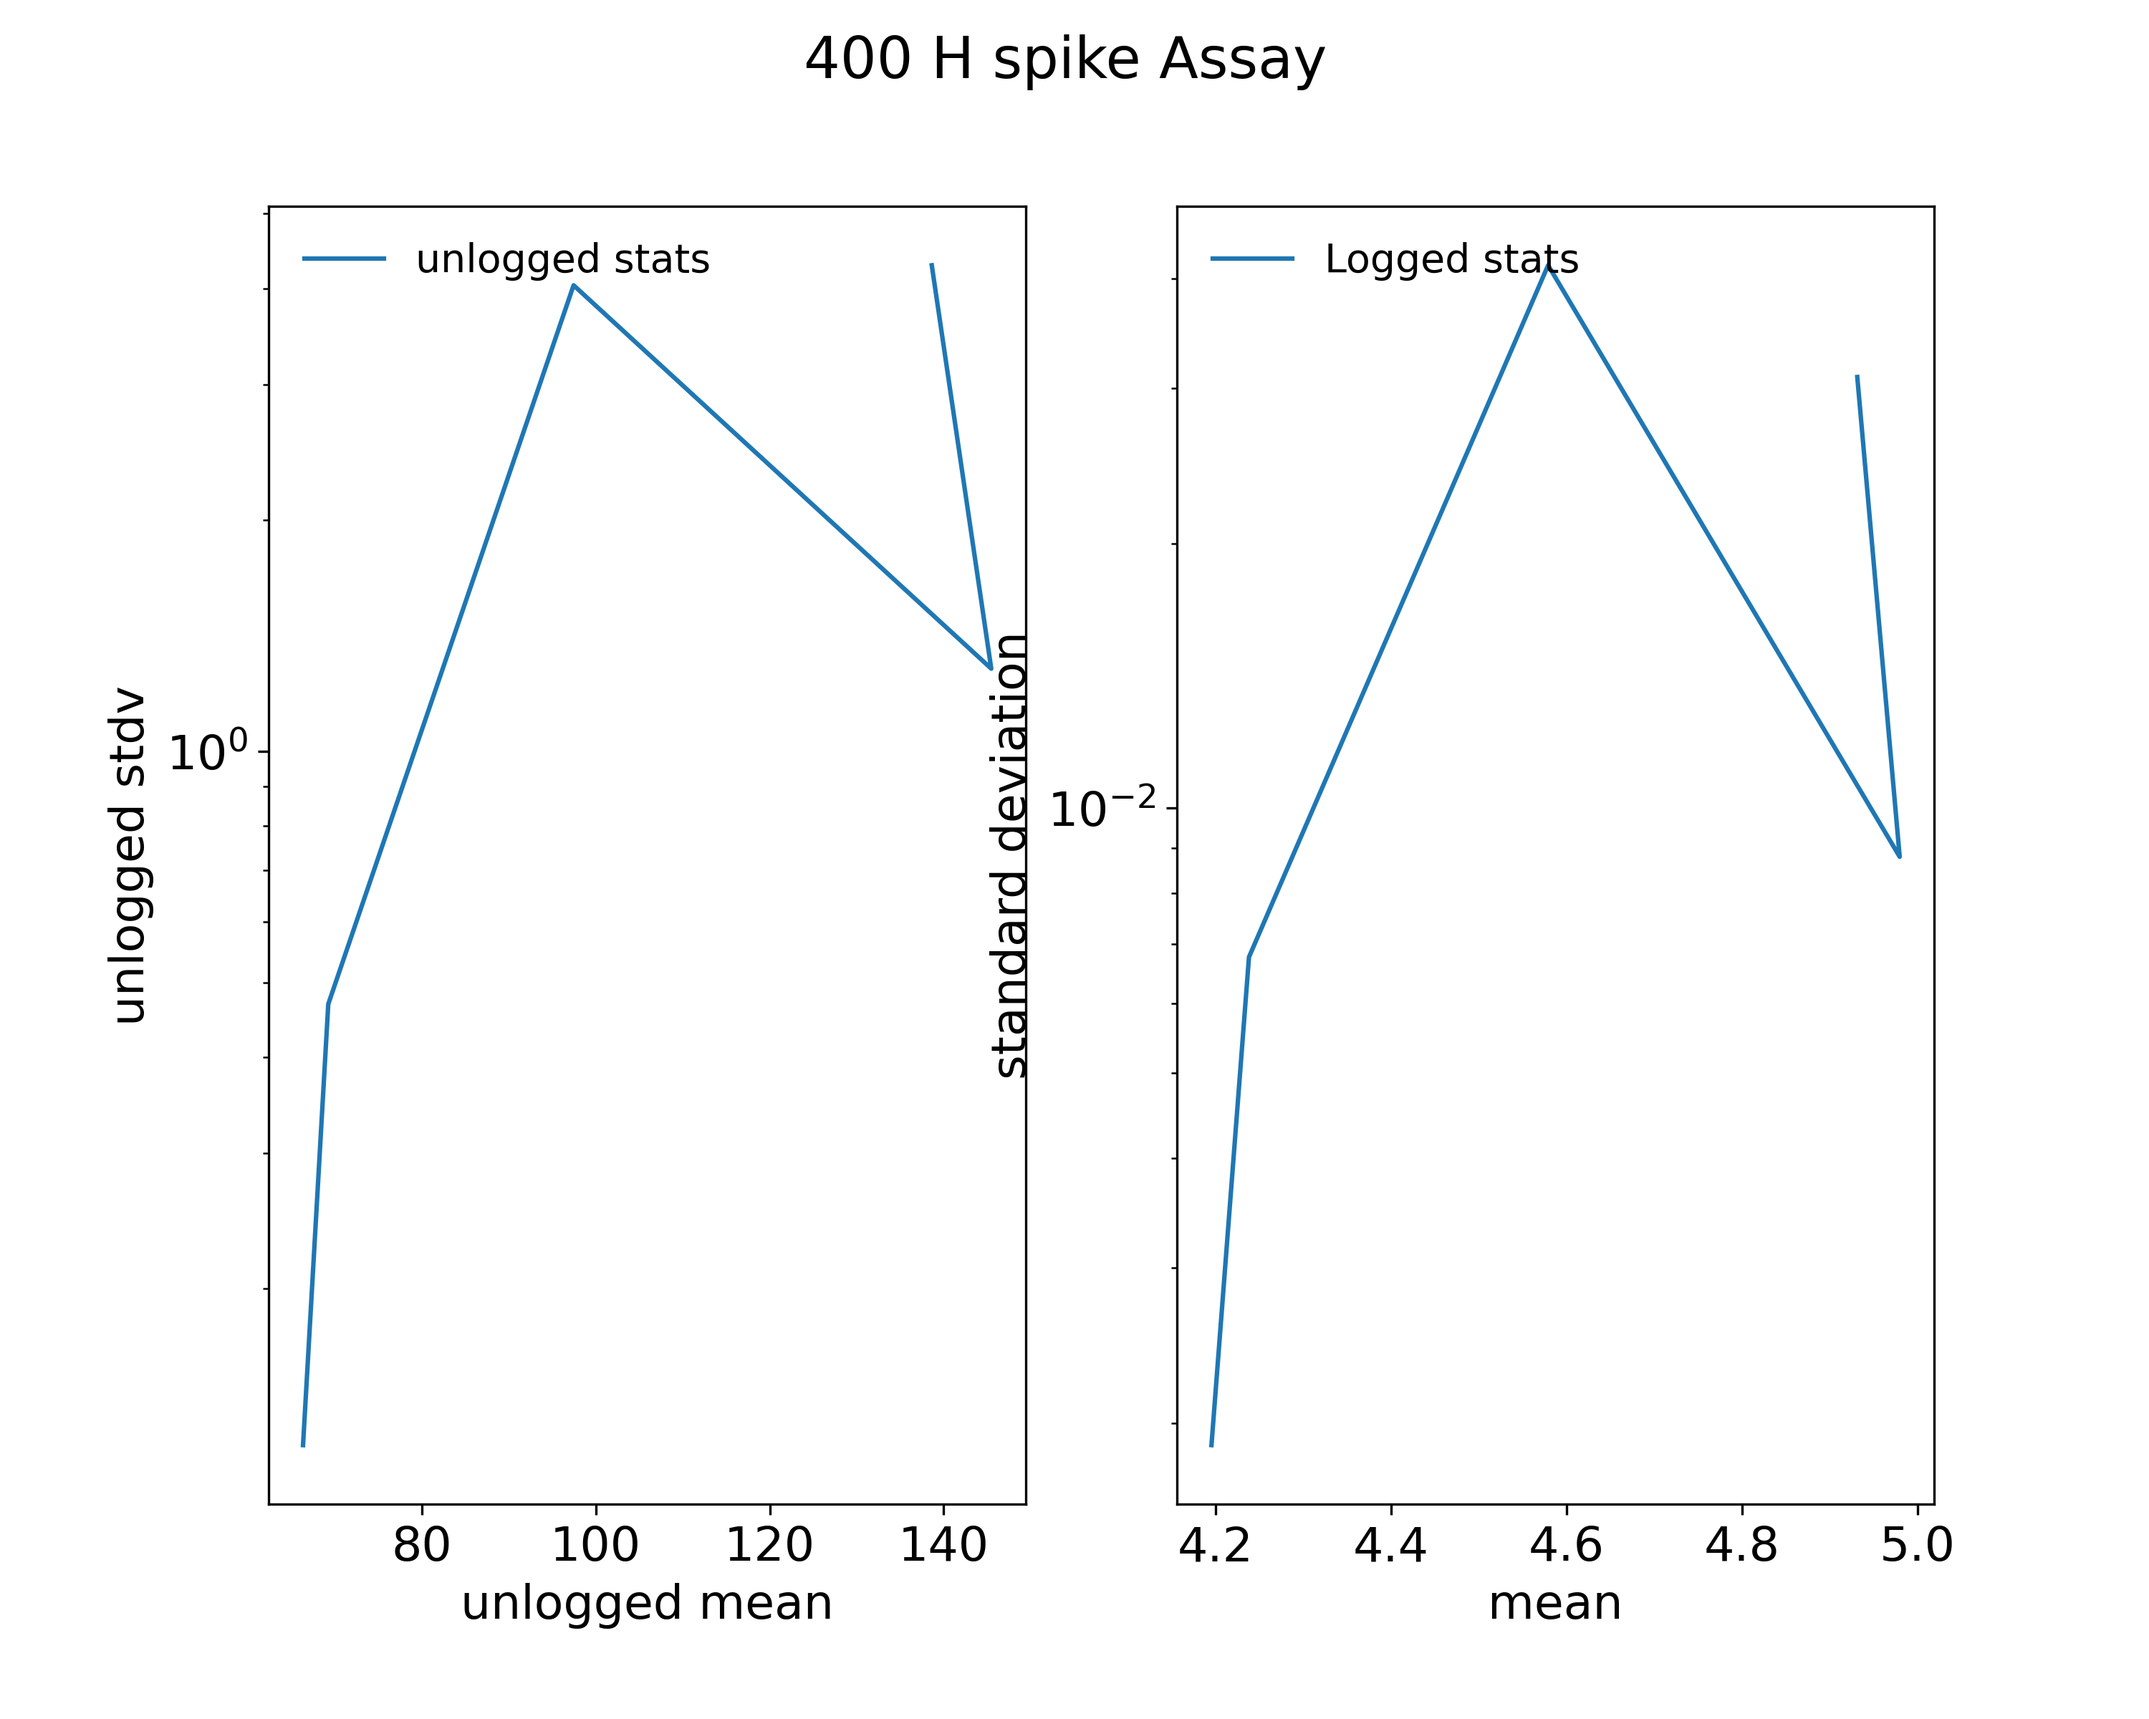
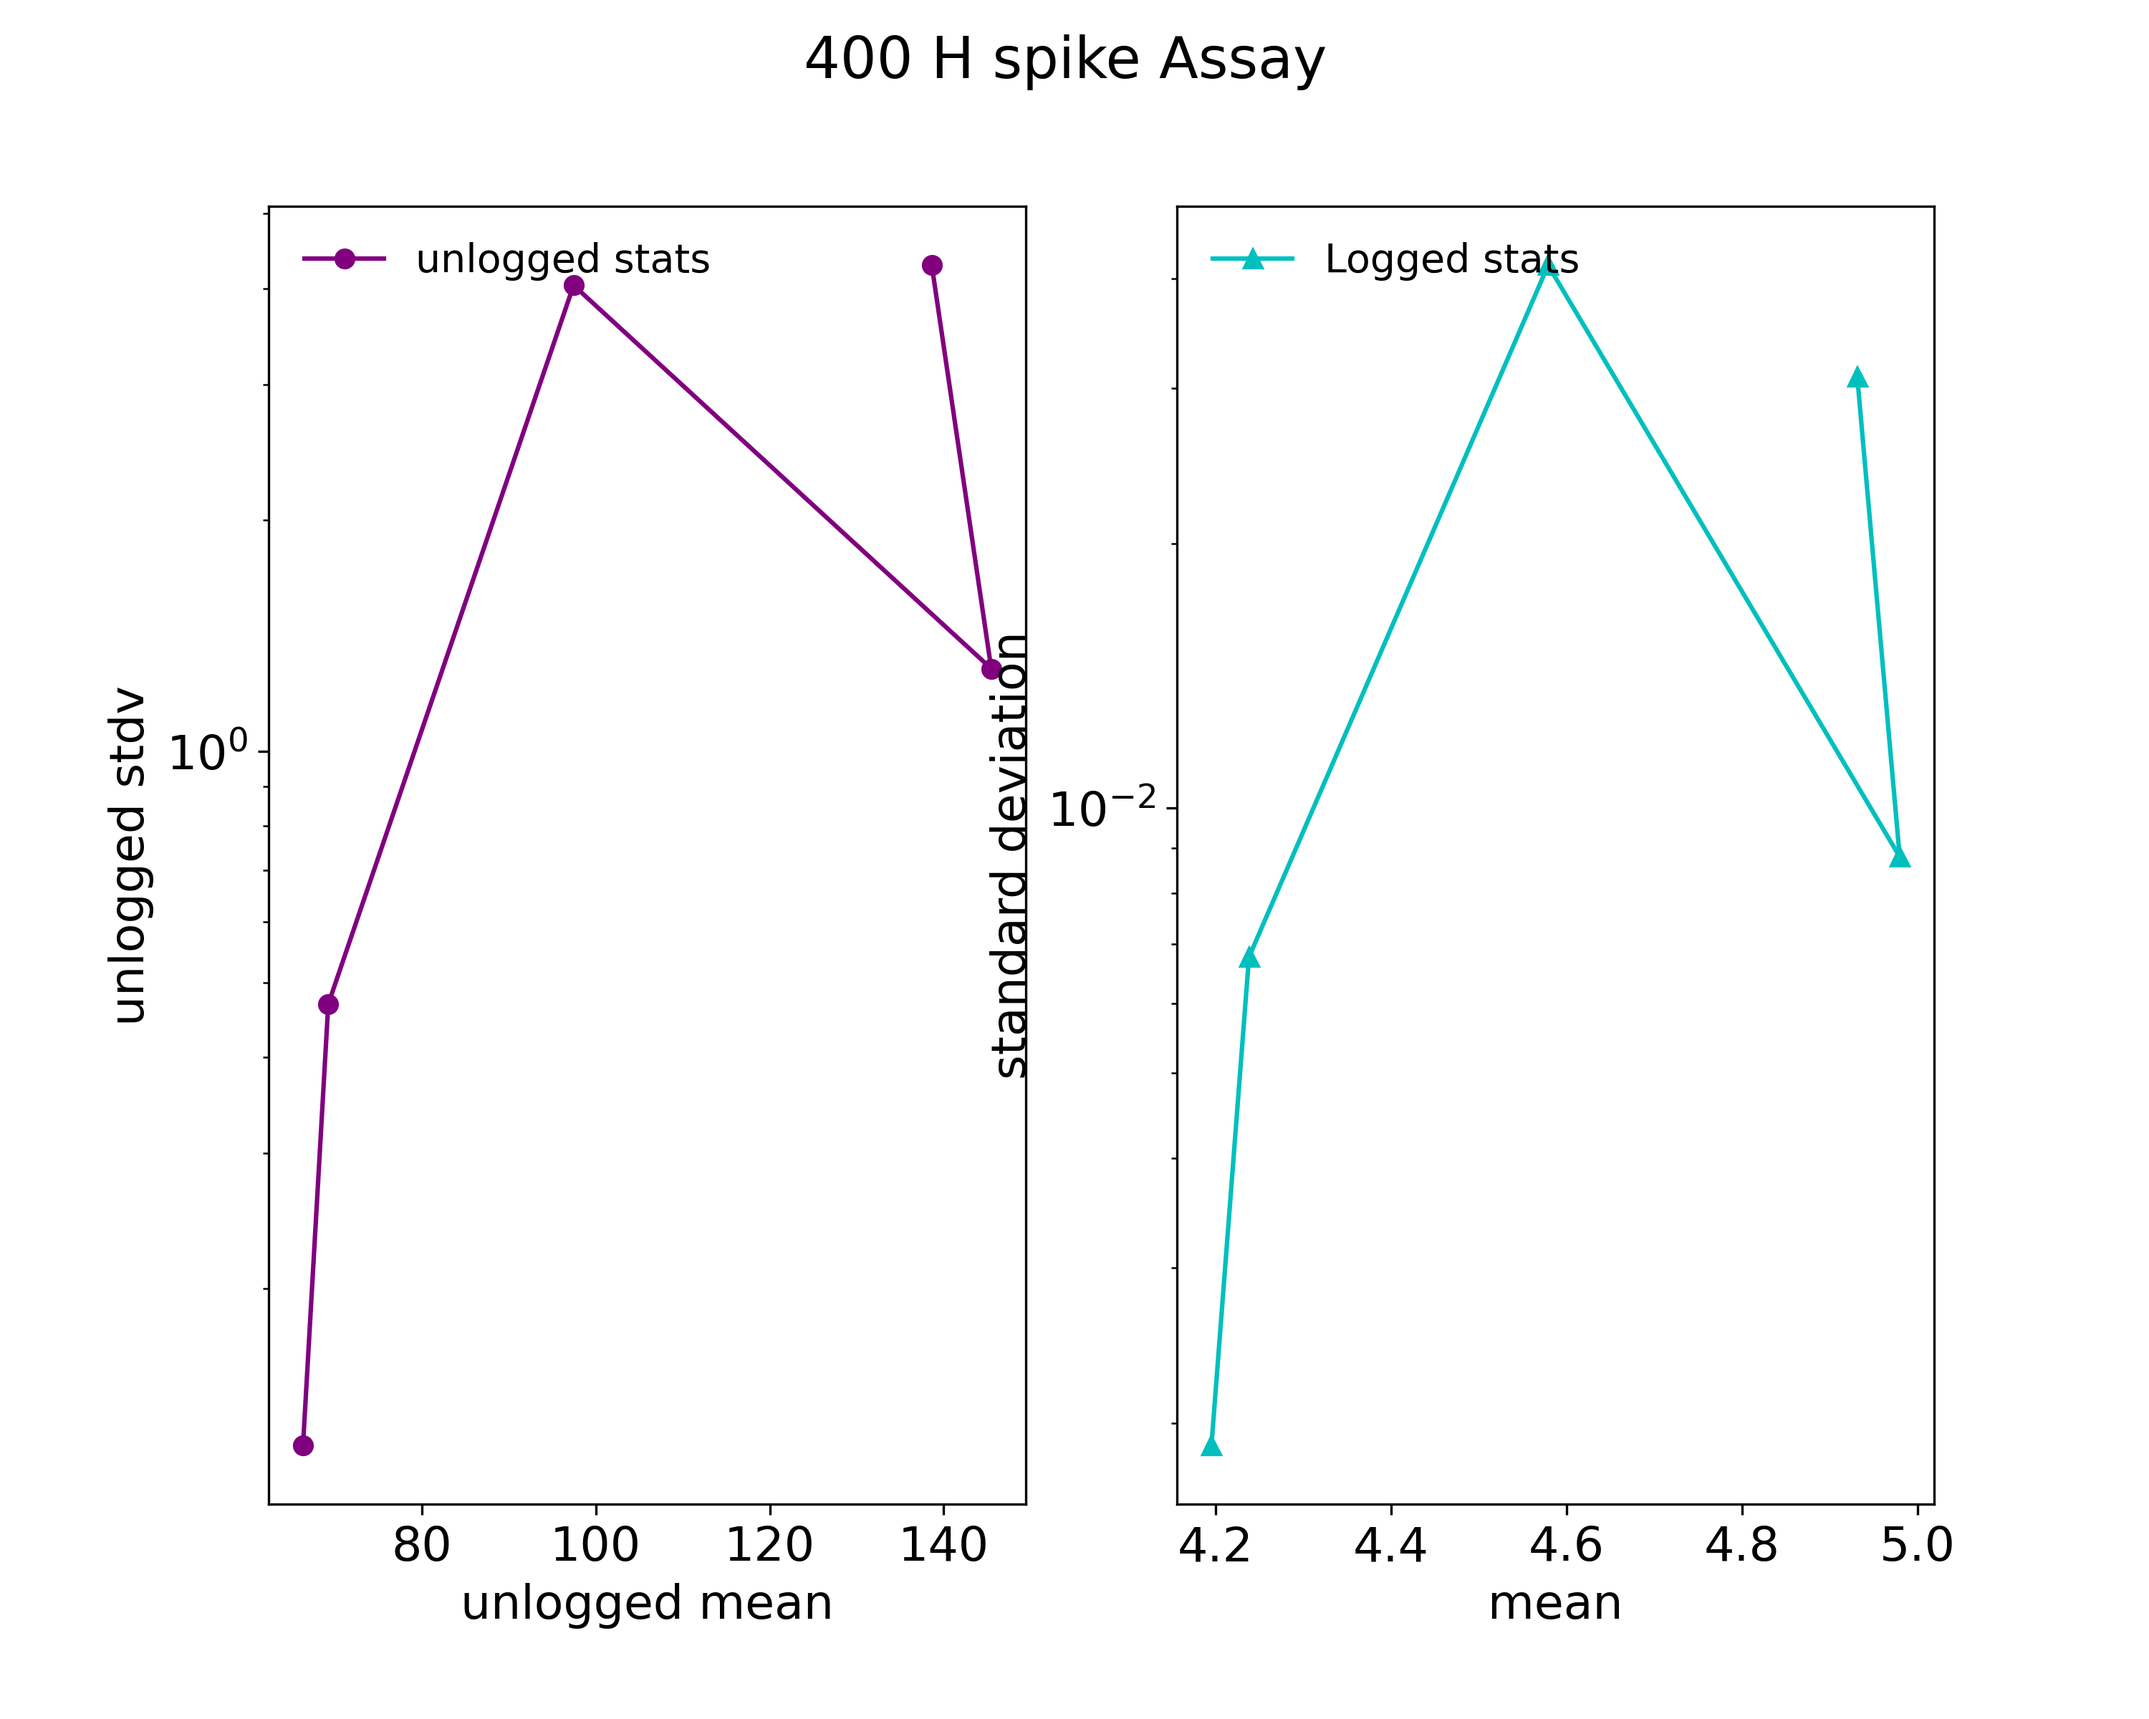
broken abioitc

diff --git a/src/viz_abiotic_batch.py b/src/viz_abiotic_batch.py
@@ -35,17 +35,31 @@ df_all.drop(df_all.columns[df_all.columns.str.contains('unnamed',case = False)],
 df_all = df_all.rename({'time(day)':'time'}, axis=1)    #'renaming column to make it callable by 'times'
 df = df_all
 
-#make unlogged avgs
-df['avg1'] = df[['rep1', 'rep3']].mean(axis=1)
-df['std1'] = df[['rep1', 'rep3']].std(axis=1)
-
-#make logs of data
 df['log1'] = np.log(df['rep1'])
+df['log2'] = np.log(df['rep2'])
 df['log3'] = np.log(df['rep3'])
+df['log4'] = np.log(df['rep4'])
 
-#avg and std of logged data
+#####
+
+#bio rep avgs put together 
+df['avg1'] = df[['rep1', 'rep3']].mean(axis=1)
+df['avg2'] = df[['rep2', 'rep4']].mean(axis=1)
+df['std1'] = df[['rep1', 'rep3']].std(axis=1)
+df['std2'] = df[['rep2', 'rep4']].std(axis=1)
+#bio rep logged avgs and stdvs 
 df['lavg1'] = df[['log1', 'log3']].mean(axis=1) #making logged avg columns in df for odelib to have log_abundance to use for posterior calcs
+df['lavg2'] = df[['log2', 'log4']].mean(axis=1)
 df['stdlog1'] = df[['log1', 'log3']].std(axis=1) #taking stdv of logged reps
+df['stdlog2'] = df[['log2', 'log4']].std(axis=1)
+
+
+#total avgs and stdvs
+df['abundance'] =  np.nanmean(np.r_[[df[i] for i in ['rep1','rep2','rep3','rep4']]],axis=0)
+df['sigma'] = np.std(np.r_[[df[i] for i in ['rep1','rep2','rep3','rep4']]],axis=0)
+df['log_abundance'] = np.nanmean(np.r_[[df[i] for i in ['log1','log2','log3','log4']]],axis=0)
+df['log_sigma'] = np.std(np.r_[[df[i] for i in ['log1','log2','log3','log4']]],axis=0)
+
 
 #splicing abiotic and mono or coculture data
 df_abiotic = df.loc[df['assay'].str.contains('abiotic', case=False)].copy()  
@@ -60,136 +74,78 @@ df = df_abiotic
 df0 = df.loc[df['assay'].str.contains('_0', case=False)].copy()
 df400 = df.loc[df['assay'].str.contains('_0', case=False)].copy()
 
-#####################################################
-# graphing abiotic data by assay in unlogged df
-#####################################################
-
-fig1, (ax1)= plt.subplots(2,1,sharex=True,figsize = (10,8))
-fig1.suptitle('Unlogged Abiotic Data', size =25 )
-fig1.supylabel('HOOH concentration (nM)')
-fig1.supxlabel('Time (Days)')
-ax1[0].set_title('Monocultures in 0 HOOH')
-ax1[1].set_title('Monocultures in 400 HOOH')
-
-ax1[0].semilogy()
-ax1[1].semilogy()
-
-# make space on the right for annotation (e.g. ROS=0, etc.)
-fig1.subplots_adjust(right=0.90, left=0.20,wspace = 0.25, hspace = 0.30)
+treats = df['assay'].unique()
+ntreats = treats.shape[0]
 
 
-#graphing data
-ax1[0].errorbar(df0['time'],df0['avg1'],yerr=df0['std1'], marker='o',label = 'avg unlogged')
-ax1[0].plot(df0['time'],df0['rep1'], label = 'rep1')
-ax1[0].plot(df0['time'],df0['rep3'], label = 'rep3')
-ax1[1].errorbar(df400['time'],df400['avg1'], yerr=df400['std1'],marker='o',label ='avg unlogged')
-ax1[1].plot(df400['time'],df400['rep1'], label = ' rep1')
-ax1[1].plot(df400['time'],df400['rep3'], label = 'rep3')
-#config legend 
-l1  = ax1[1].legend(loc = 'upper left')
-l1.draw_frame(False)
-
-plt.show()
-#save fig 
-fig1.savefig('../figures/abiotic_unlogged')
-
+    #setting up fig 1 for dyanmics 
 
 
 #####################################################
-# graphing abiotic data by assay in logged df
+# Set up large loop  (treatments) 
 #####################################################
 
-fig2, (ax2)= plt.subplots(2,1,sharex=True,figsize = (10,8))
-fig2.suptitle('Logged Abiotic Data', size =25 )
-fig2.supylabel('HOOH concentration (nM)')
-fig2.supxlabel('Time (Days)')
-ax1[0].set_title('Abitoic 0 HOOH Spike Data')
-ax2[1].set_title('Abitoic 400 HOOH Spike Data')
+for (t,nt) in zip(treats,range(ntreats)):
 
-ax2[0].semilogy()
-ax2[1].semilogy()
+    df = df_abiotic[((df_abiotic['assay']==t))].copy()
+    
+    fig1,ax1 = plt.subplots(1,2,figsize=[11,8]) #plot creation and config 
+    fig1.suptitle('Raw dynamics of'+ str(t)) #full title config
+    ax1[0].set_title('HOOH Concentration')
+    ax1[1].set_title('avg vs stdv')
+    fig1.subplots_adjust(left=0.15, bottom=0.10, right=0.90, top=0.9, wspace=0.35, hspace=0.30) #shift white space for better fig view
+    ax1[0].set_xlabel('Time (days)')
+    ax1[0].set_ylabel('HOOH concentration (\u03BCM)')
+    ax1[1].set_xlabel('Raw Mean')
+    ax1[1].set_ylabel('Raw standard deviation ')
 
-# make space on the right for annotation (e.g. ROS=0, etc.)
-fig2.subplots_adjust(right=0.90, left=0.20, wspace = 0.25, hspace = 0.35)
-
-
-#graphing data
-ax2[0].errorbar(df0['time'],df0['lavg1'],yerr=df0['stdlog1'], marker='o',label = 'avg loggged')
-ax2[0].plot(df0['time'],df0['log1'], label = 'log1')
-ax2[0].plot(df0['time'],df0['log3'], label = 'log3')
-ax2[1].errorbar(df400['time'],df400['lavg1'], yerr=df400['stdlog1'],marker='o',label ='avg logged')
-ax2[1].plot(df400['time'],df400['log1'], label = 'log1')
-ax2[1].plot(df400['time'],df400['log3'], label = 'log3')
-#config legend 
-l2  = ax2[1].legend(loc = 'upper left')
-l2.draw_frame(False)
-
-plt.show()
-
-#save fig 
-
-fig2.savefig('../figures/abiotic_logged')
-
-###############################
-#graph Stats of 0 assay  
-######################
-fig3,ax3 = plt.subplots(1,2,figsize=[10,8],dpi = 300)
-fig3.suptitle('(0 H spike Assay )')
-#config 
-ax3[0].set_xlabel('unlogged mean')
-ax3[0].set_ylabel('unllogged stdv')
-ax3[1].set_xlabel('logged mean')
-ax3[1].set_ylabel('standard deviation')
-ax3[0].semilogy()
-ax3[1].semilogy()
-
-fig3.subplots_adjust(right=0.90, left=0.20, wspace = 0.25, hspace = 0.35)
-
-#plot data
-
-ax3[0].plot(df0.avg1,df0.std1,label = 'unlogged stats')
-ax3[1].plot(df0.lavg1,df0.stdlog1,label = 'Logged stats')
-
-l3  = ax3[1].legend(loc = 'upper left')
-l3.draw_frame(False)
-l0  = ax3[0].legend(loc = 'upper left')
-l0.draw_frame(False)
-
-plt.show()
-
-fig3.savefig('../figures/0_abiotic_stats',dpi=300)
-
-#Stats of 400 assay  
-
-fig4,ax4 = plt.subplots(1,2,figsize=[10,8],dpi = 300)
-fig4.suptitle('400 H spike Assay ')
-
-ax4[0].set_xlabel('unlogged mean')
-ax4[0].set_ylabel('unlogged stdv')
-ax4[1].set_xlabel('mean')
-ax4[1].set_ylabel('standard deviation')
-ax4[0].semilogy()
-ax4[1].semilogy()
+    fig2,ax2 = plt.subplots(1,2,figsize=[11,8]) #plot creation and config 
+     #full title config
+    fig2.suptitle('Logged dynamics of '+ str(t))
+    ax2[0].set_title('HOOH concentration ')
+    ax2[1].set_title('Log avg vs stdv')
+    fig2.subplots_adjust(left=0.15, bottom=0.10, right=0.90, top=0.9, wspace=0.30, hspace=0.30) #shift white space for better fig view
+    ax2[0].set_xlabel('Time (days)')
+    ax2[0].set_ylabel('HOOH concentration (\u03BCM)')
+    ax2[1].set_xlabel('Log Mean')
+    ax2[1].set_ylabel('Log Standard deviation')
 
 
-ax4[0].plot(df400.avg1,df400.std1,label = 'unlogged stats')
-ax4[1].plot(df400.lavg1,df400.stdlog1,label = 'Logged stats')
-
-l4  = ax4[1].legend(loc = 'upper left')
-l4.draw_frame(False)
-l5  = ax4[0].legend(loc = 'upper left')
-l5.draw_frame(False)
-
-plt.show()
-
-fig4.savefig('../figures/400_abiotic_stats',dpi=300)
+    
+#####################################################
+# Set up loop of vol numbers inside treatment loop  
+#####################################################
 
 
-
-
-
-
-fig4.savefig('../figures/400_abiotic_stats',dpi=300)
+#setting working df as a single Experiment in df_all
+    ax1[0].plot(df.time,df.rep1, label = 'rep1')
+    ax1[0].plot(df.time,df.rep2, label = 'rep2')
+    ax1[0].plot(df.time,df.rep3, label = 'rep3')
+    ax1[0].plot(df.time,df.rep4, label = 'rep4')
+    ax1[0].errorbar(df.time,df.abundance, yerr=df.sigma, marker = '*', c='g',label =  'Mean')
+    ax1[0].errorbar(df.time,df.avg1, yerr=df.std1, marker = 'o', c='b',label =  'Avg 1')
+    ax1[0].errorbar(df.time,df.avg2, yerr=df.std2, marker = 'd', c='r',label =  'Avg 2')
+    ax1[1].scatter(df.abundance,df.sigma, c='g')
+    ax1[1].scatter(df.avg1,df.std1, c='b')
+    ax1[1].scatter(df.avg2,df.std2, c='r')
+    ax1[0].semilogy()
+    l1 = ax1[0].legend(loc = 'upper left')
+    l1.draw_frame(False)
+    ax2[0].plot(df.time,df.log1, label = 'l1')
+    ax2[0].plot(df.time,df.log2, label = 'l2')
+    ax2[0].plot(df.time,df.log3, label = 'l3')
+    ax2[0].plot(df.time,df.log4, label = 'l4')
+    ax2[0].errorbar(df.time,df.log_abundance, yerr=df.log_sigma, marker = '*', c='g',label =  'Log Mean')
+    ax2[0].errorbar(df.time,df.lavg1, yerr=df.stdlog1, marker = 'o', c='b',label =  'Log Avg 1')
+    ax2[0].errorbar(df.time,df.lavg2, yerr=df.stdlog2, marker = 'd', c='r',label =  'Log Avg 2')
+    ax2[1].scatter(df.log_abundance,df.log_sigma, c='g')
+    ax2[1].scatter(df.lavg1,df.stdlog1, c='b')
+    ax2[1].scatter(df.lavg2,df.stdlog2, c='r')
+    ax2[0].semilogy()
+    ax2[1].semilogy()
+    ax2[1].semilogx()
+    l2 = ax2[0].legend(loc = 'upper left')
+    l2.draw_frame(False)
 
 
 
@@ -198,6 +154,7 @@ fig4.savefig('../figures/400_abiotic_stats',dpi=300)
 
 
 
+plt.show
 
 
 
